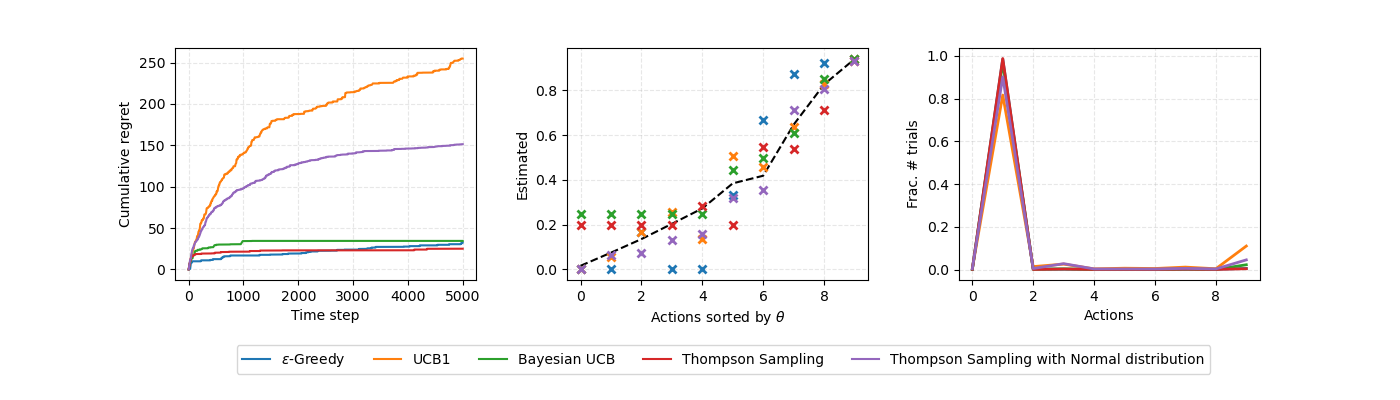
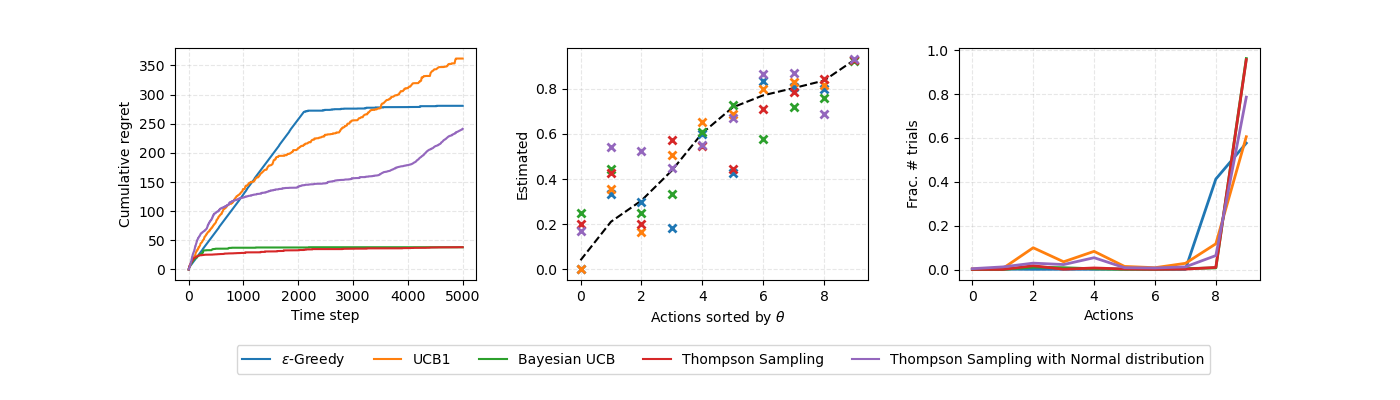
add NormalBandit

diff --git a/solvers.py b/solvers.py
@@ -4,7 +4,7 @@ import numpy as np
 import time
 from scipy.stats import beta
 
-from bandits import BernoulliBandit
+from bandits import Bandit, BernoulliBandit, NormalBandit
 
 
 class Solver(object):
@@ -12,7 +12,7 @@ class Solver(object):
         """
         bandit (Bandit): the target bandit to solve.
         """
-        assert isinstance(bandit, BernoulliBandit)
+        assert isinstance(bandit, Bandit)
         np.random.seed(int(time.time()))
 
         self.bandit = bandit
@@ -24,7 +24,10 @@ class Solver(object):
 
     def update_regret(self, i):
         # i (int): index of the selected machine.
-        self.regret += self.bandit.best_proba - self.bandit.probas[i]
+        if isinstance(self.bandit, NormalBandit):
+            self.regret += self.bandit.best_mean - self.bandit.means[i]
+        else:
+            self.regret += self.bandit.best_proba - self.bandit.probas[i]
         self.regrets.append(self.regret)
 
     @property

diff --git a/main.py b/main.py
@@ -4,7 +4,7 @@ matplotlib.use('Agg')  # noqa
 import matplotlib.pyplot as plt
 import numpy as np
 
-from bandits import BernoulliBandit
+from bandits import BernoulliBandit, NormalBandit
 from solvers import Solver, EpsilonGreedy, UCB1, BayesianUCB, ThompsonSampling, ThompsonSamplingNormal
 
 
@@ -69,6 +69,7 @@ def experiment(K, N):
     """
 
     b = BernoulliBandit(K)
+    b_normal = NormalBandit(K)
     print("Randomly generated Bernoulli bandit has reward probabilities:\n", b.probas)
     print("The best machine has index: {} and proba: {}".format(max(range(K), key=lambda i: b.probas[i]), max(b.probas)))
 
@@ -79,7 +80,7 @@ def experiment(K, N):
         UCB1(b),
         BayesianUCB(b, 3, 1, 1),
         ThompsonSampling(b, 1, 1),
-        ThompsonSamplingNormal(b, 0, 1)
+        ThompsonSamplingNormal(b_normal, 0, 1)
     ]
     names = [
         r'$\epsilon$' + '-Greedy',

diff --git a/bandits.py b/bandits.py
@@ -29,3 +29,25 @@ class BernoulliBandit(Bandit):
             return 1
         else:
             return 0
+
+class NormalBandit(Bandit):
+
+    def __init__(self, n, means=None, stds=None):
+        assert means is None or len(means) == n
+        assert stds is None or len(stds) == n
+        self.n = n
+        if means is None:
+            np.random.seed(int(time.time()))
+            self.means = [np.random.random() for _ in range(self.n)]
+        else:
+            self.means = means
+
+        if stds is None:
+            self.stds = [1.0 for _ in range(self.n)]
+        else:
+            self.stds = stds
+
+        self.best_mean = max(self.means)
+
+    def generate_reward(self, i):
+        return np.random.normal(self.means[i], self.stds[i])
